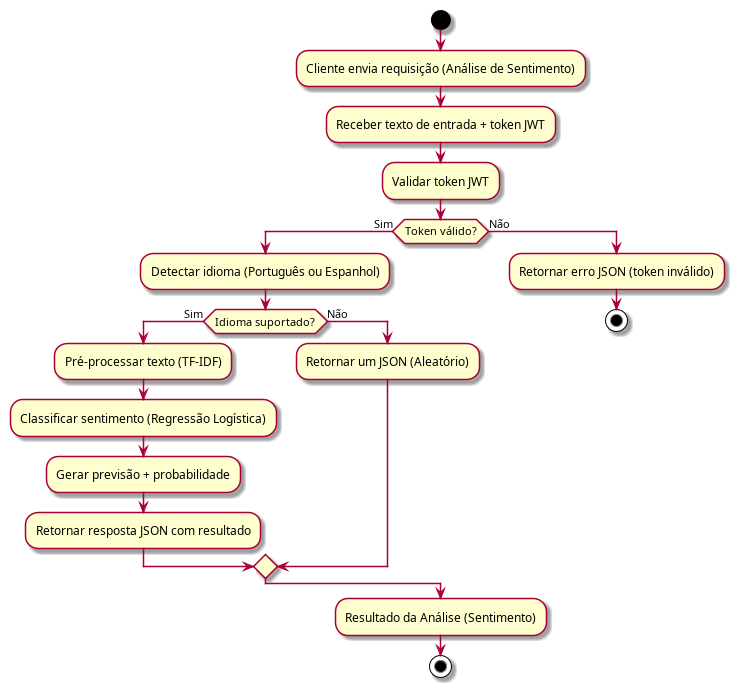
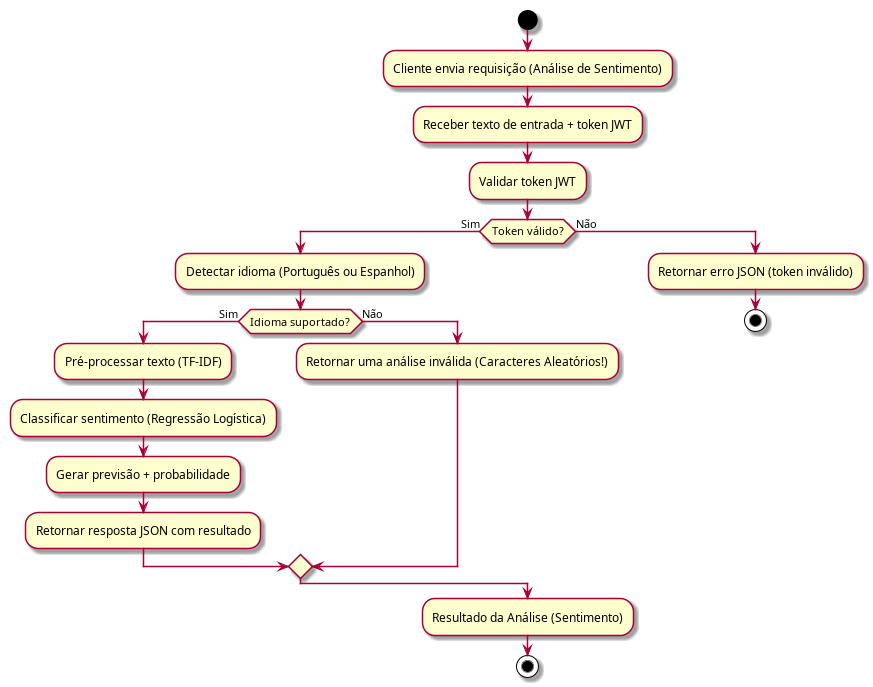
correção de README e fluxogramas

diff --git a/README.MD b/README.MD
@@ -1,16 +1,29 @@
 # Projeto: SentimentAPI — Análise de Sentimentos de Feedbacks
 
-![Status: Em Desenvolvimento](https://img.shields.io/badge/Status-Em_Desenvolvimento-yellow?style=for-the-badge)
+
 ![Java](https://img.shields.io/badge/java-%23ED8B00.svg?style=for-the-badge&logo=openjdk&logoColor=white)
 ![Spring Boot](https://img.shields.io/badge/spring_boot-%236DB33F.svg?style=for-the-badge&logo=springboot&logoColor=white)
-![Maven](https://img.shields.io/badge/Maven-%23C71A36.svg?style=for-the-badge&logo=apachemaven&logoColor=white)
-![H2 Database](https://img.shields.io/badge/H2_Database-%23003B57.svg?style=for-the-badge&logo=h2&logoColor=white)
 ![Python](https://img.shields.io/badge/python-3670A0?style=for-the-badge&logo=python&logoColor=ffdd54)
 ![FastAPI](https://img.shields.io/badge/FastAPI-005571?style=for-the-badge&logo=fastapi)
-![Pandas](https://img.shields.io/badge/pandas-%23150458.svg?style=for-the-badge&logo=pandas&logoColor=white)
 ![Scikit-Learn](https://img.shields.io/badge/scikit_learn-%23F7931E.svg?style=for-the-badge&logo=scikit-learn&logoColor=white)
+![Pandas](https://img.shields.io/badge/pandas-%23150458.svg?style=for-the-badge&logo=pandas&logoColor=white)
 ![NumPy](https://img.shields.io/badge/numpy-%23013243.svg?style=for-the-badge&logo=numpy&logoColor=white)
+![Uvicorn](https://img.shields.io/badge/Uvicorn-000000?style=for-the-badge&logo=uvicorn&logoColor=white)
+![Hugging Face](https://img.shields.io/badge/HuggingFace-FFAE1A?style=for-the-badge&logo=huggingface&logoColor=black)
+![Kaggle](https://img.shields.io/badge/Kaggle-20BEFF?style=for-the-badge&logo=kaggle&logoColor=white)
+![Imbalanced-learn](https://img.shields.io/badge/Imbalanced--learn-005571?style=for-the-badge&logo=python&logoColor=white)
+![Joblib](https://img.shields.io/badge/Joblib-005571?style=for-the-badge&logo=python&logoColor=white)
+![NLTK](https://img.shields.io/badge/NLTK-154360?style=for-the-badge&logo=python&logoColor=white)
+![SpaCy](https://img.shields.io/badge/SpaCy-09A3D5?style=for-the-badge&logo=spacy&logoColor=white)
+![Matplotlib](https://img.shields.io/badge/Matplotlib-11557C?style=for-the-badge&logoColor=white)
+![Seaborn](https://img.shields.io/badge/Seaborn-2E6F95?style=for-the-badge&logoColor=white)
+![Maven](https://img.shields.io/badge/Maven-%23C71A36.svg?style=for-the-badge&logo=apachemaven&logoColor=white)
+![H2 Database](https://img.shields.io/badge/H2_Database-%23003B57.svg?style=for-the-badge&logo=h2&logoColor=white)
 ![PlantUML](https://img.shields.io/badge/PlantUML-%23f2f2f2.svg?style=for-the-badge&logo=plantuml&logoColor=black)
+![Docker](https://img.shields.io/badge/Docker-2496ED?style=for-the-badge&logo=docker&logoColor=white)
+![GitHub Actions](https://img.shields.io/badge/GitHub_Actions-2088FF?style=for-the-badge&logo=githubactions&logoColor=white)
+![Oracle Cloud](https://img.shields.io/badge/Oracle_Cloud-F80000?style=for-the-badge&logo=oracle&logoColor=white)
+
 
 ---
 
@@ -53,19 +66,32 @@ Seguindo a arquitetura de microserviços, adotaremos a seguinte stack:
 **Backend:** 
 * Java 17 + Spring Boot 3 - API /sentiment
 * Spring Web (REST) - Endpoints
-* OpenFeign - Cliente HTTP → Python
-* H2 Database - Banco em memória
-* Swagger/OpenAPI - Documentação
+* Spring Security (JWT)
+* Spring Validation
+* Lombok
+* OpenFeign (HTTP client → Python)
+* H2 Database (em memória)
+* JUnit + Mockito (testes)
+* Swagger/OpenAPI (Documentação)
 
 **Data Science:**
-* Python + Pandas + Scikit-learn - Treinar modelo
-* Joblib - Persistir modelo
-* FastAPI - Servidor leve para predição
-* Streamlit (opcional) - Visualização
+  * Python 3.10 
+  * Pandas, NumPy, Scikit-learn  
+  * Joblib (persistência de modelo)  
+  * FastAPI + Uvicorn (servidor de predição) 
+  * Datasets (Hugging Face) 
+  * Huggingface Hub  
+  * KaggleHub 
+  * Imbalanced-learn (tratamento de dados desbalanceados) 
+  * NLTK / SpaCy (pré-processamento de texto, se aplicável) 
+  * Matplotlib / Seaborn (visualização de dados) 
+  
 
 **Infra/Dev:**
 * Git / GitHub (Monorepo)
-* Docker (futuro)
+* Docker + Docker Compose
+* GitHub Actions (CI/CD)
+* PlantUML(fluxogramas)
 
 **Build/Deploy:**
 * Oracle Cloud (futuro) 
@@ -73,23 +99,65 @@ Seguindo a arquitetura de microserviços, adotaremos a seguinte stack:
 ### 📁 **Estrutura do Projeto**
 * `/backend` - Código fonte da API Java
 * `/data` - Notebooks e scripts de treinamento do modelo
-* `/docs` - Documentação complementar
+* `/docs` - Documentação e fluxogramas
+  * `fluxoCadastro.png` — Fluxo de cadastro de usuário 
+  * `fluxoLogin.png` — Fluxo de autenticação  
+  * `fluxoAnalise.png` — Fluxo de análise de sentimento 
+  * `INFO.TXT` — Informações complementares 
+* `/frontend` — Interface web da aplicação
+  * `index.html` — Página inicial
+  * `README.md` — Documentação do front-end
+  * `server.py` — Script de servidor local (opcional)
+  * `/src`
+    * `/assets`
+      * `/css`
+        - app.css
+        - dashboard.css
+        - login.css
+        - style.css
+      * `/js`
+        - auth-guard.js
+        - dashboard.js
+        - layout.js
+        - login.js
+        - register.js
+        - script.js
+    * `/pages`
+      - dashboard.html
+      - register.html
+      - sentiment.html
+
 #### Visão Geral do Repositório
 ```
 hackathon-sentimentapi-analytics
 │
-├── backend/                # Spring Boot (Java)
+├── backend/                # API Java (Spring Boot)
 │   ├── src/...
 │   └── pom.xml
 │
-├── data/                   # Python
-│   ├── notebooks/          # Jupyter
-│   ├── model/              # Modelo .joblib
+├── data/                   # Serviço de Machine Learning (Python)
+│   ├── notebooks/          # Jupyter Notebooks
+│   ├── model/              # Modelo treinado (.joblib)
 │   ├── app.py              # FastAPI
-│   └── requirements.txt
+│   └── requirements.txt    # Dependências Python
 │
-├── docs/                    # Documentação
-└── README.md
+├── frontend/               # Interface Web
+│   ├── index.html
+│   ├── server.py
+│   └── src/
+│       ├── assets/
+│       │   ├── css/        # Estilos
+│       │   └── js/         # Scripts
+│       └── pages/          # Páginas HTML
+│
+├── docs/                   # Documentação
+│   └── fluxogramas/
+│       ├── fluxoCadastro.png
+│       ├── fluxoLogin.png
+│       ├── fluxoAnalise.png
+│       └── INFO.TXT
+│
+└── README.md               # Documentação principal do projeto
 ```
 ---
 ### 🚀 Execução do Projeto
@@ -197,23 +265,6 @@ Representa o processo de autenticação de um usuário no sistema.
 Representa o processo de classificação automática de feedbacks em positivo, negativo ou neutro.
 ![Fluxo de Análise de Sentimento](docs/fluxogramas/fluxoAnalise.png)
 
-#### Visão Geral do Repositório
-```
-hackathon-sentimentapi-analytics
-│
-├── backend/                # Spring Boot (Java)
-│   ├── src/...
-│   └── pom.xml
-│
-├── data/                   # Python
-│   ├── notebooks/          # Jupyter
-│   ├── model/              # Modelo .joblib
-│   ├── app.py              # FastAPI
-│   └── requirements.txt
-│
-├── doc/                    # Documentação
-└── README.md
-```
 ---
 
 ### 👥 **Equipe do Projeto**
